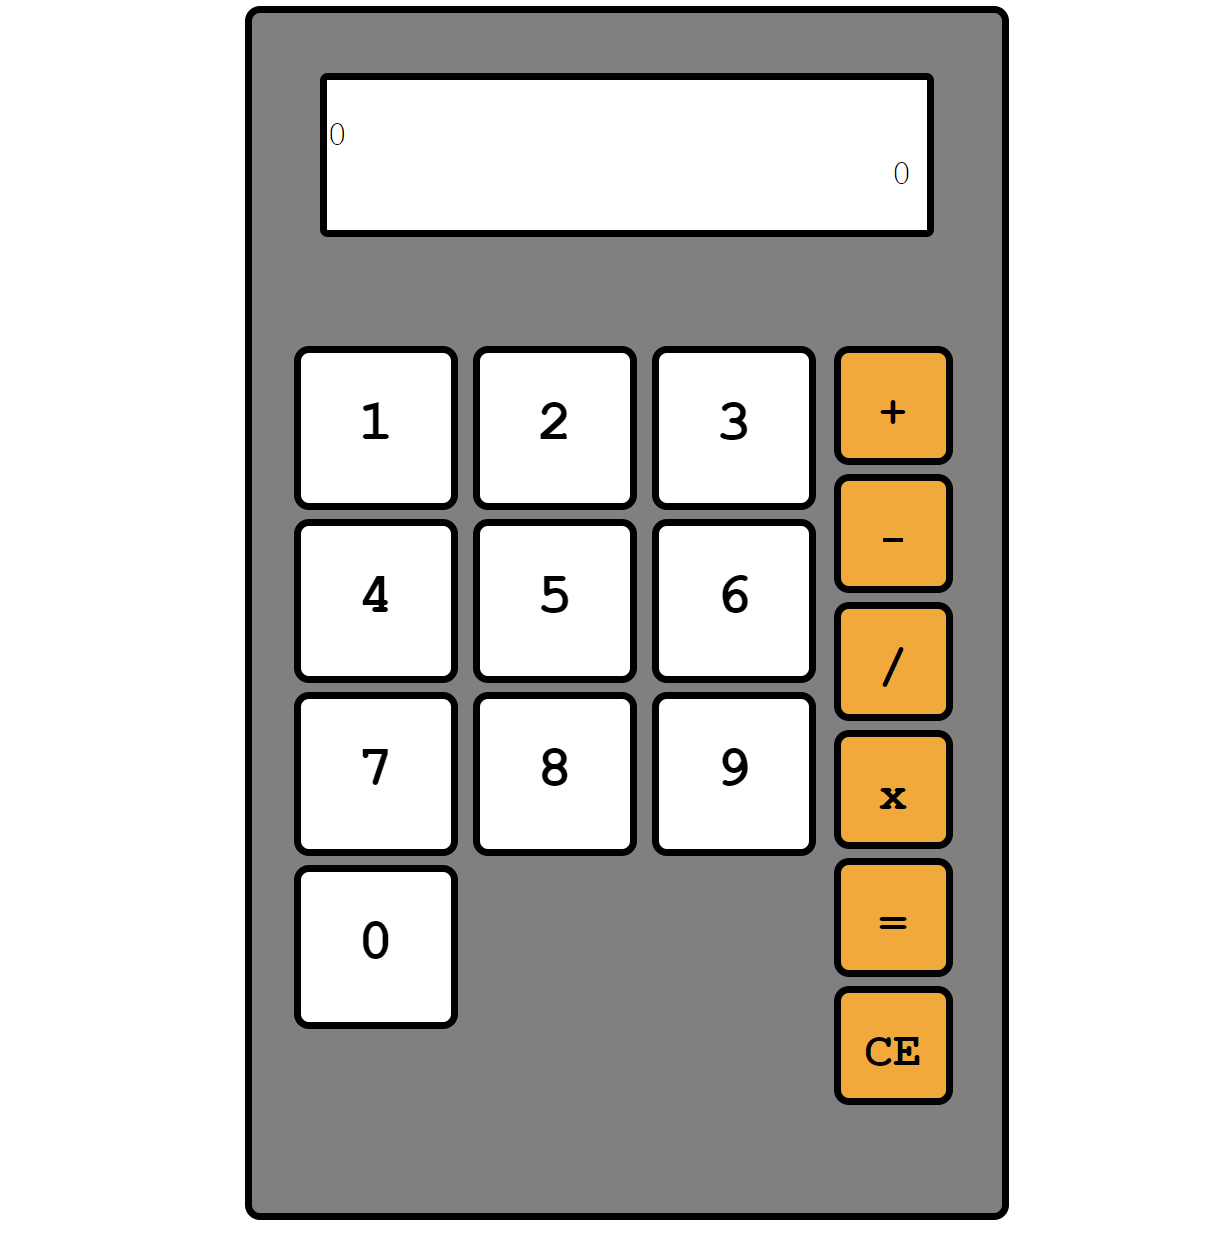
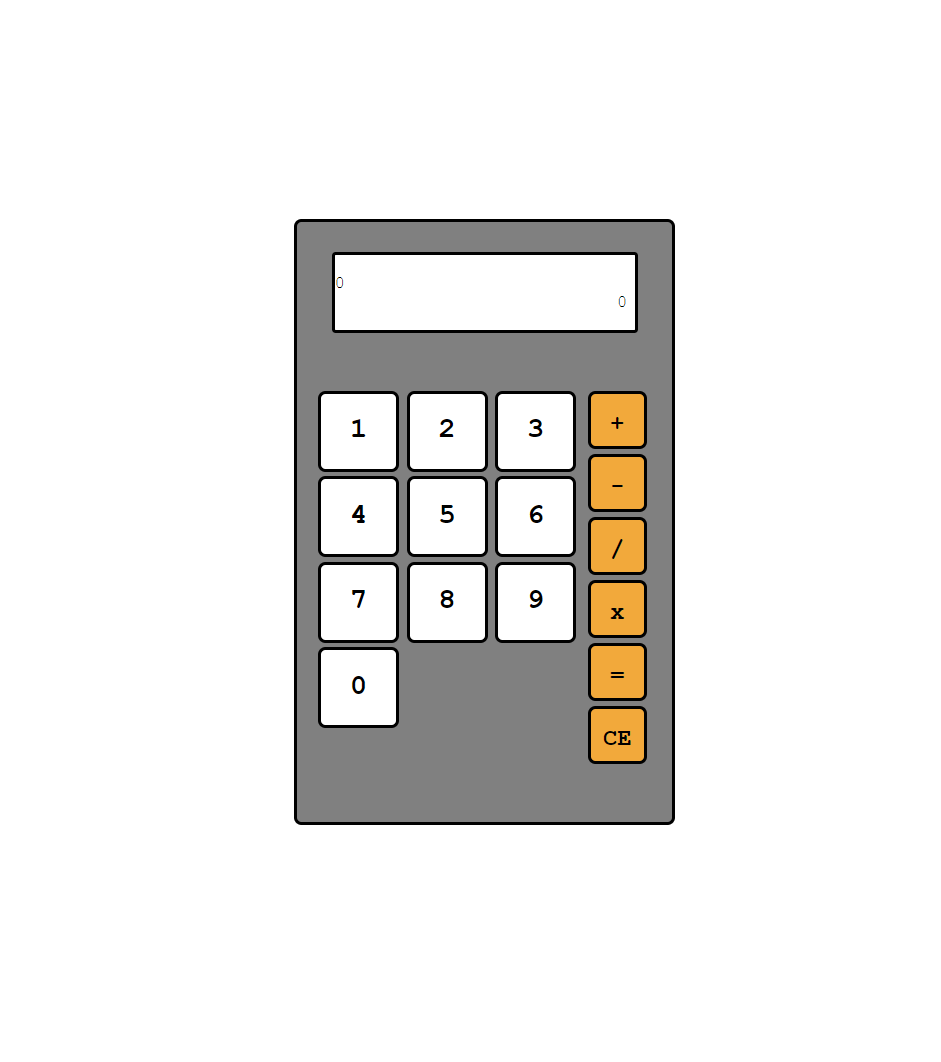
commit

diff --git a/Main/index.html b/Main/index.html
@@ -10,59 +10,65 @@
 
 <body>
     <header>
-        
-            <nav class="nav">
-                <ul>
-                    <li>About Me</li>
-                    <li>projects</li>
-                    <li>Resume</li>
-                    <li>certificates</li>
-                    <li>contact me</li>
-                </ul>
-            </nav>
-        
+
+        <nav class="nav">
+            <ul>
+                <li>About Me</li>
+                <li>Projects</li>
+                <li>Resume</li>
+                <li>Certificates</li>
+                <li>Contact Me</li>
+            </ul>
+        </nav>
+
         <h1>Ryan Wilson</h1>
         <h3>Web and Software Development</h3>
     </header>
     <main>
-       <section class="about-me">
-       <h2>About Me</h2>
-       <p> aaaa aaaaa aaaa aaaaa aaaaaaaa aaaaaaaaaaa aaaaaaaaaa aaaa aaaa aaaa aaa a aaaaa aaa</p>
-       <br>
-       <p>bbbbb bbbb bbb bbb bbbbbbbbbbbbbbbb bbbbbbb bbbbbbbbbbb bbbbbbbbbbbb bbbbbbbbbb bbbbbb</p>
-       </section>
-       <section class="projects">
-         <h2>Projects</h2>
-         <article>
-            <h3>Tetris</h3>
-            <h4>description</h4>
-            <img src="bruh.jpg" width="200px" height="200px">
-         </article>
-         <article>
-            <a href="/Calculator/index.html" target="_blank"><h3>Calculator</h3></a>
-            <h4>description</h4>
-            <img src="calculatorIMG.png" width="200px" height="200px">
-         </article>
-         <article>
-            <h3>Movie Finder</h3>
-            <h4>description</h4>
-            <img src="bruh.jpg" width="200px" height="200px">
-         </article>
-         <article>
-            <h3>Weather App</h3>
-            <h4>description</h4>
-            <img src="bruh.jpg" width="200px" height="200px">
-         </article>
-       </section>
-       <section class="resume">
-        <h2>Experience</h2>
-       </section>
-       <section class="certificates">
-        <h2>Certificates</h2>
-       </section>
+        <section class="about-me">
+            <h2>About Me</h2>
+            <p> aaaa aaaaa aaaa aaaaa aaaaaaaa aaaaaaaaaaa aaaaaaaaaa aaaa aaaa aaaa aaa a aaaaa aaa</p>
+            <br>
+            <p>bbbbb bbbb bbb bbb bbbbbbbbbbbbbbbb bbbbbbb bbbbbbbbbbb bbbbbbbbbbbb bbbbbbbbbb bbbbbb</p>
+        </section>
+        <section class="projects">
+            <h2>Projects</h2>
+            <article>
+                <h3>Tetris</h3>
+                <h4>description</h4>
+                <img src="bruh.jpg" width="200px" height="200px">
+            </article>
+            <article>
+                <a href="/Calculator/index.html" target="_blank">
+                    <h3>Calculator</h3>
+                </a>
+                <h4>description</h4>
+                <img src="calculatorIMG.png" width="200px" height="200px">
+            </article>
+            <article>
+                <h3>Movie Finder</h3>
+                <h4>description</h4>
+                <img src="bruh.jpg" width="200px" height="200px">
+            </article>
+            <article>
+                <h3>Weather App</h3>
+                <h4>description</h4>
+                <img src="bruh.jpg" width="200px" height="200px">
+            </article>
+        </section>
+        <section class="experience">
+            <h2>Experience</h2>
+        </section>
+        <section class="certificates">
+            <h2>Certificates</h2>
+        </section>
     </main>
     <footer>
-
+        <section class="contact-info">
+            <h2>Contact Me</h2>
+            <p>(989) 329-9054</p>
+            <p>ryandevlinwilson@gmail.com</p>
+        </section>
     </footer>
 </body>
 

diff --git a/Main/styles.css b/Main/styles.css
@@ -55,7 +55,17 @@ section {
     flex-direction: column;
 }
 
+.about-me {
+    background-color: hsla(204, 100%, 50%, 1);
+    padding: 40px 20px;
+    width: 90%;
+    border-radius: 20px;
+}
+
 .projects {
+    width: 90%;
+    border-radius: 20px;
+    background-color: hsla(204, 100%, 50%, .25);
     display: flex;
     flex-direction: row;
     text-align: center;
@@ -109,4 +119,34 @@ section {
     height: auto;
     width: 100%;
     border-radius: 15px;
+}
+
+.experience {
+    background-color: hsla(204, 100%, 50%, .25);
+    padding: 40px 20px;
+    width: 90%;
+    border-radius: 20px;
+}
+
+.certificates {
+    background-color: hsla(204, 100%, 50%, 1);
+    padding: 40px 20px;
+    width: 90%;
+    border-radius: 20px;
+}
+
+
+footer {
+    width: 100%;
+    background-color: black;
+}
+
+.contact-info {
+    color: white;
+    padding: 50px;
+}
+
+.contact-info h2 {
+    font-size: 2rem;
+margin-bottom: 30px
 }

diff --git a/Calculator/styles.css b/Calculator/styles.css
@@ -3,7 +3,7 @@
     flex-wrap: wrap;
     width: 500px;
     height: 800px;
-    margin: 0 auto;
+    margin: 300px auto;
     background-color: gray;
     border: 5px solid black;
     border-radius: 10px;
